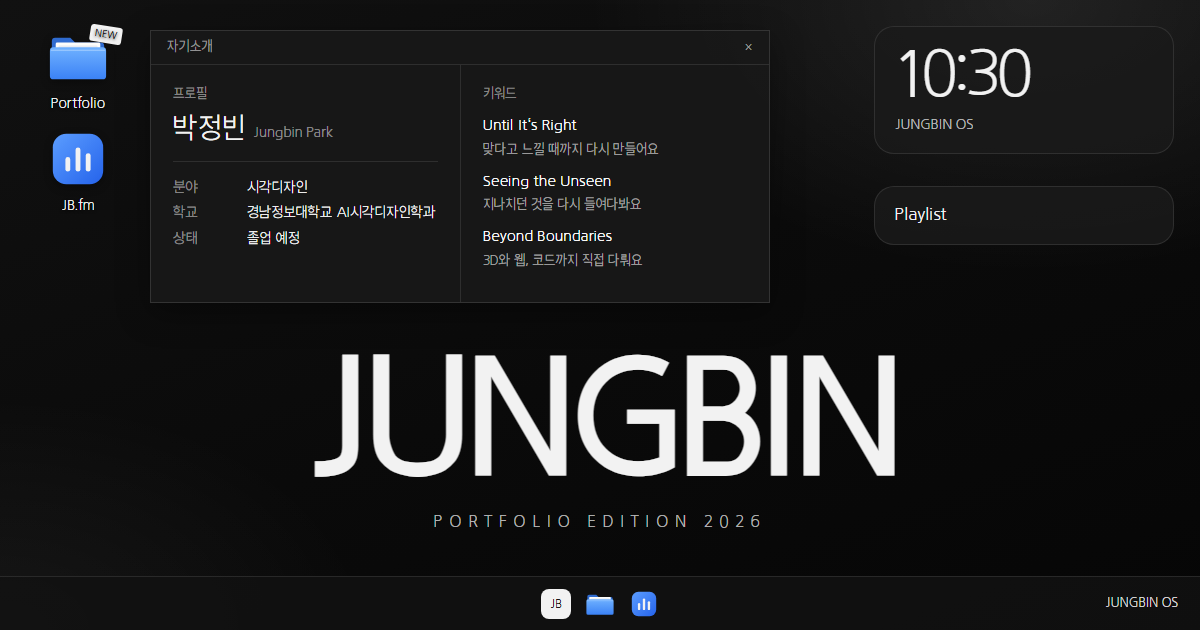
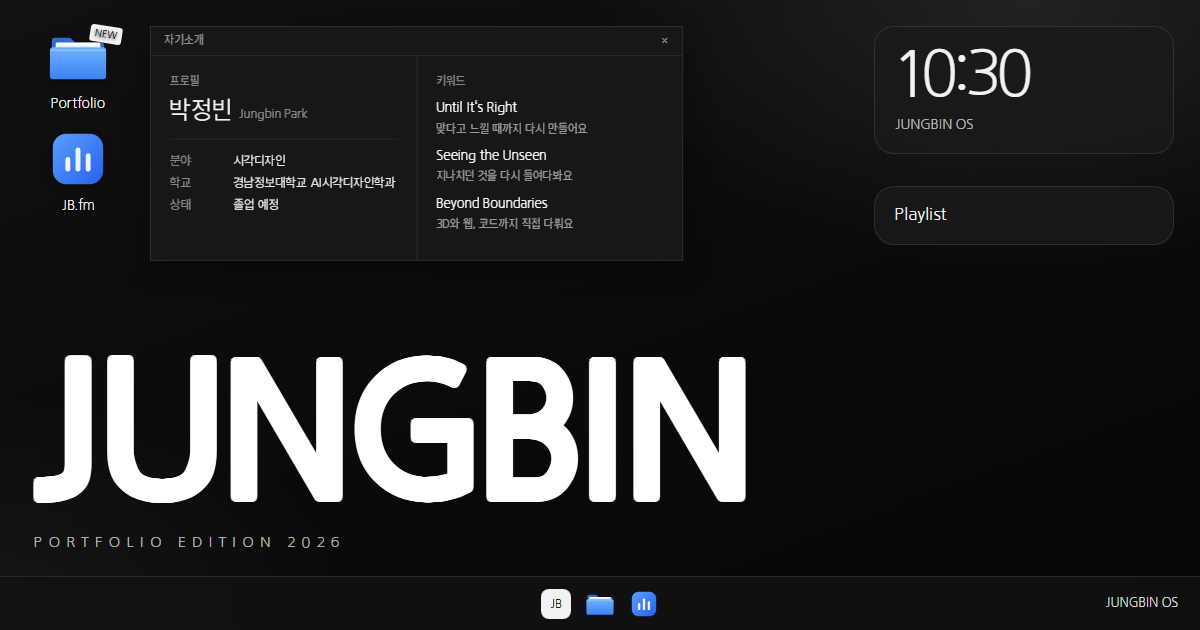
Desktop name: bottom-left, bold, larger

diff --git a/index.html b/index.html
@@ -817,9 +817,10 @@ body.paging #desk{transform:none;opacity:.55}
 /* ---------- desktop, a bit more personal: brand wallpaper + widgets + lime folders ---------- */
 #mono{display:none}
 /* name sits low on the wallpaper, plain white */
-#hero{position:absolute;left:43%;bottom:7vh;transform:translateX(-50%);text-align:center;pointer-events:none;user-select:none}
-.hero-word{font-weight:800;font-size:clamp(72px,12vw,200px);line-height:.9;letter-spacing:-.065em;color:#FFFFFF;text-shadow:0 10px 30px rgba(0,0,0,.3)}
-.hero-sub{margin-top:14px;font-family:var(--mono);font-size:12px;letter-spacing:.42em;color:rgba(255,255,255,.7)}
+#hero{position:absolute;left:clamp(20px,2.4vw,40px);bottom:clamp(18px,3vh,36px);text-align:left;pointer-events:none;user-select:none}
+/* KOTRA Gothic has one weight: a ring of tight white shadows thickens it evenly into a bold */
+.hero-word{font-weight:700;font-size:clamp(96px,15vw,280px);line-height:.86;letter-spacing:-.01em;color:#FFFFFF;text-shadow:0.0220em 0.0000em 0 #FFFFFF,0.0203em 0.0084em 0 #FFFFFF,0.0156em 0.0156em 0 #FFFFFF,0.0084em 0.0203em 0 #FFFFFF,0.0000em 0.0220em 0 #FFFFFF,-0.0084em 0.0203em 0 #FFFFFF,-0.0156em 0.0156em 0 #FFFFFF,-0.0203em 0.0084em 0 #FFFFFF,-0.0220em 0.0000em 0 #FFFFFF,-0.0203em -0.0084em 0 #FFFFFF,-0.0156em -0.0156em 0 #FFFFFF,-0.0084em -0.0203em 0 #FFFFFF,-0.0000em -0.0220em 0 #FFFFFF,0.0084em -0.0203em 0 #FFFFFF,0.0156em -0.0156em 0 #FFFFFF,0.0203em -0.0084em 0 #FFFFFF,0.0102em 0.0042em 0 #FFFFFF,0.0042em 0.0102em 0 #FFFFFF,-0.0042em 0.0102em 0 #FFFFFF,-0.0102em 0.0042em 0 #FFFFFF,-0.0102em -0.0042em 0 #FFFFFF,-0.0042em -0.0102em 0 #FFFFFF,0.0042em -0.0102em 0 #FFFFFF,0.0102em -0.0042em 0 #FFFFFF,0 10px 30px rgba(0,0,0,.35);margin-left:-.02em}
+.hero-sub{margin-top:18px;padding-left:.2em;font-family:var(--mono);font-size:13px;letter-spacing:.42em;color:rgba(255,255,255,.7)}
 .hero-sub b{color:#FFFFFF;font-weight:500}
 /* widgets (right column) */
 #wdgs{position:absolute;right:22px;top:22px;width:290px;display:flex;flex-direction:column;gap:12px;z-index:3}
@@ -846,7 +847,7 @@ body.paging #desk{transform:none;opacity:.55}
 .wdg-np button{width:38px;height:38px;border-radius:50%;background:var(--fg);color:#000;display:grid;place-items:center;flex:none}
 .wdg-np button:hover{background:var(--acid)}
 .wdg-np button svg{width:16px;height:16px}
-@media (max-width:1260px){ #hero{left:50%} #wdgs{display:none} }
+@media (max-width:1260px){ #wdgs{display:none} }
 @media (max-width:640px){
   #hero{bottom:96px} .hero-sub{letter-spacing:.25em;font-size:10px}
   /* phone taskbar: start + a few apps only (folders are already on the home screen) */
